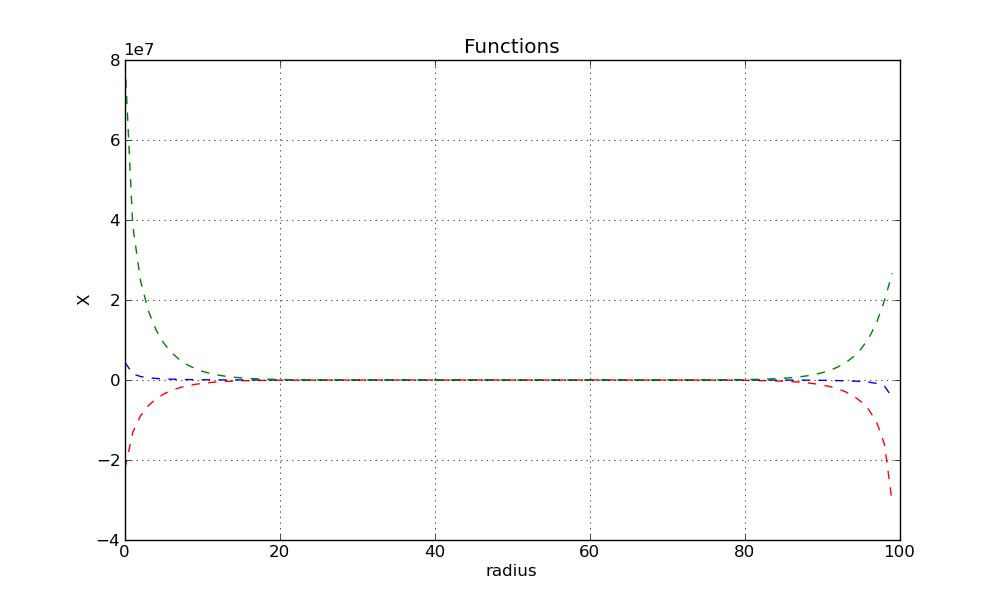
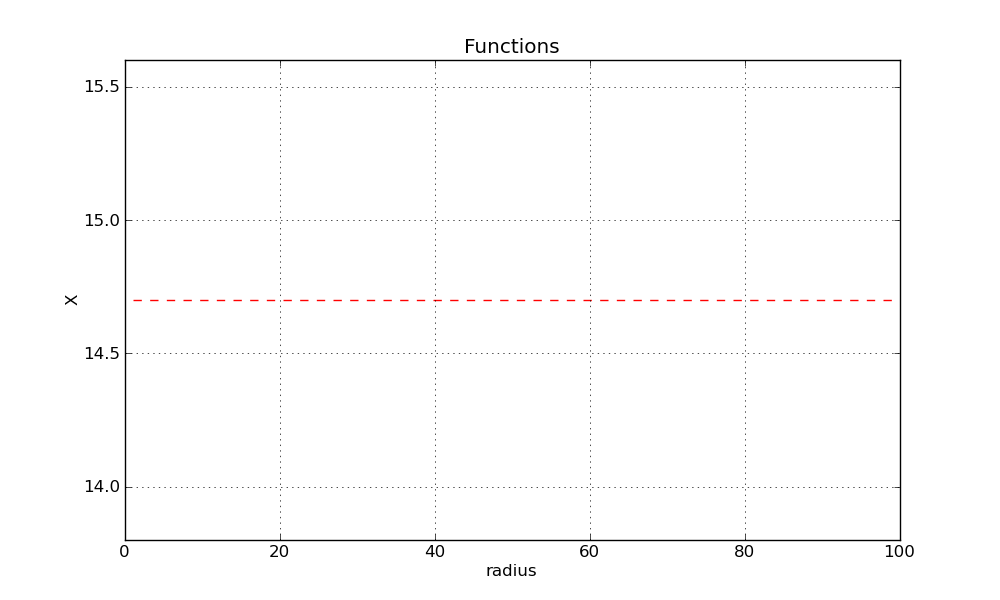
first commit of 1d trial

diff --git a/poisson1d.c b/poisson1d.c
@@ -1,0 +1,272 @@
+
+/* to run, type
+ 
+gcc -Wall  -o poisson1d poisson1d.c -I/$HOME/software/CSparse/Include -L/$HOME/software/CSparse/Lib -lcsparse
+ 
+ 
+ */
+
+
+#include <stdio.h>
+#include <stdlib.h>
+#include <math.h>
+#include "cs.h"
+
+FILE *output;
+FILE *output2;
+FILE *output3;
+
+#define Pi 3.14159265
+static double *d1uphi, *uphi_new, *source, *radius;
+static double Wi, Wo, Re, r1, r2;
+static double grid_spacing[2];
+static int P_size;
+
+
+void open_file(){
+    output2 = fopen("Uphi.txt", "rt");
+    char line[80];
+    int i=0;
+    
+    while(fgets(line, 80, output2) !=NULL){
+        sscanf(line, "%lf",&d1uphi[i]);
+        
+        //printf("%f, i=%d \n", d1uphi[i], i);
+        i+=1;
+    }
+    fclose(output2);
+    
+}
+
+
+void fill_source(){
+    int i;
+    for(i=0; i<(P_size+2); i++){
+        radius[i] = r1 + ((i-1)*grid_spacing[0]);
+        if(i==0){
+            source[i] = (2.0*radius[i]*Re*Wi*Wi);
+        }else if(i==(P_size+1)){
+            //source[i] = radius[i]*Re*Wo*Wo;
+            source[i] = 0.0;
+        }/*else if(i==1){ //this could be sketchy, not quite sure if this is the right thing to do.
+            source[i] = Re*(d1uphi[i-1]/(radius));
+        }else if(i==P_size){
+            source[i] = 2.0*Re*(Wo*d1uphi[i-1]/(radius));
+        }*/else{
+            source[i] = Re*d1uphi[i-1]*d1uphi[i-1]/radius[i];
+        }
+        printf("source[%d] = %f, radius = %f \n ", i, source[i], radius[i]);
+
+    }
+    
+}
+
+void finite_difference(){
+    int i;
+    for(i=0; i<P_size; i++){
+        //double radius = r1 + (i*grid_spacing[0]);
+        double value = radius[i+1]*(fabs(source[i+2] - source[i]))/(grid_spacing[0]*Re);
+        uphi_new[i] = sqrt(value);
+        printf("value = %f, uphinew[%d] = %f \n", value, i, uphi_new[i]);
+    }
+
+}
+
+
+int main()
+// -----------------------------------------------------------------------------
+// This program uses the CSparse library to solve the matrix equation A x = b.
+// The values used for the coefficient 'b' and the matrix 'A' are totally
+// arbitrary in this example. 'A' is given a band-tridiagonal form, with
+// additional entries in the upper right and lower right corners.
+// -----------------------------------------------------------------------------
+{
+    //for a 100x100 array, but have 2 ghost cells in it for bcs
+    const int M = 102;
+    const int N = 102;
+    P_size = 100;
+    int i, j;
+    
+    d1uphi = (double*) malloc(P_size*sizeof(double));
+    uphi_new = (double*) malloc(P_size*sizeof(double));
+    radius = (double*) malloc((P_size+2)*sizeof(double));
+
+
+    source = (double*) malloc((P_size+2)*sizeof(double));
+    
+    open_file();
+    Re = 1.0;
+    Wi = 10.0;
+    Wo = 0.0;
+    r1 = 1.0;
+    r2 = 2.0;
+    
+    
+    grid_spacing[0] = (r2-r1)/P_size;
+    grid_spacing[1] = (2.0*Pi)/P_size;
+    
+    fill_source();
+    
+
+    //printf("here \n");
+
+    double *matrix2 = (double*) malloc(M*N*sizeof(double));
+    // Declare an MxN matrix which can hold up to three band-diagonals.
+    struct cs_sparse *triplet = cs_spalloc(M, N, 3*N, 1, 1);
+    
+    //cs_entry(triplet, 0, 0, 1.0); // Fill the corners with the value 1
+    //cs_entry(triplet, M-1, N-1, 1.0);
+    
+    // Fill the diagonal, and the band above and below the diagonal with some
+    // values.
+    
+    
+    int position;
+    for(i=0; i<M; i++){
+        for(j=0; j<N; j++){
+            position = (i*N) + j;
+            matrix2[position] = 0.0;
+        }
+    }
+    
+    matrix2[0] = 1.0;
+    matrix2[(M-1)*N + N-1] = 1.0;
+    
+    //printf("here");
+    for (i=0; i<M; i++) {
+        printf("%d \n", i);
+        double a, b, c, d, e;
+        //double radius = r1 + ((i-1)*grid_spacing[0]);
+        //a = grid_spacing[1]*grid_spacing[1]*radius*(radius - grid_spacing[0]);
+        //b = grid_spacing[0]*grid_spacing[0];
+        //c = -2.0*((grid_spacing[1]*grid_spacing[1]*radius*radius) + (grid_spacing[0]*grid_spacing[0]));
+        //d = b;
+        //e = grid_spacing[1]*grid_spacing[1]*radius*(radius + grid_spacing[0]);
+        //a = (1.0/(grid_spacing[0]*grid_spacing[0])) - (1.0/(radius*grid_spacing[0]));
+        //b = 1.0/(radius*radius*grid_spacing[1]*grid_spacing[1]);
+        //c = -2.0*((1.0/(grid_spacing[0]*grid_spacing[0])) + (1.0/(radius*radius*grid_spacing[1]*grid_spacing[1])));
+        //c = -2.0*(1.0/(grid_spacing[0]*grid_spacing[0]));
+        //d = b;
+        //e = (1.0/(grid_spacing[0]*grid_spacing[0])) +(1.0/(radius*grid_spacing[0]));
+        a = 1.0/grid_spacing[0];
+        e = -a;
+        
+        /*if(i<=(P_size)){
+            cs_entry(triplet,i, 0, a);
+            matrix2[(i*N)] = a;
+        }else{
+            cs_entry(triplet,i, i-P_size,  a);
+            matrix2[(i*N) + (i-P_size)] = a;
+        }
+        
+        if(i>=(M-P_size - 1)){
+            cs_entry(triplet,i, N-1, e);
+            matrix2[(i*N) + N-1] = e;
+        }else{
+            cs_entry(triplet,i, i+P_size,  e);
+            matrix2[(i*N) + (i + P_size)] = e ;
+        }
+        
+        
+        if((i-1)%P_size==0){
+            cs_entry(triplet,i, i+(P_size-1),  b);
+            matrix2[(i*N) + (i + P_size-1)] = b;
+        }else{
+            cs_entry(triplet,i, i-1, b);
+            matrix2[(i*N) + (i-1)] = b;
+        }
+        
+        if(i%P_size==0){
+            cs_entry(triplet,i, i-(P_size - 1), d);
+            matrix2[(i*N) + (i - P_size +1)] = d;
+        }else{
+            cs_entry(triplet,i, i+1, d);
+            matrix2[(i*N) + (i +1)] = d ;
+
+        }*/
+        
+        
+        if(i==0){
+            //cs_entry(triplet, i, i, a);
+            cs_entry(triplet, i, i+1, e+a);
+        }else if(i==(M-1)){
+            cs_entry(triplet, i, i-1, a+e);
+            //cs_entry(triplet, i, i, e);
+        }else{
+            cs_entry(triplet, i, i-1, a);
+            //cs_entry(triplet, i, i, c);
+            cs_entry(triplet, i, i+1, e);
+        }
+
+        //cs_entry(triplet, i, i, c);
+        //matrix2[(i*N) + i] = c;
+    }
+    
+    // Declare and initialize the array of coefficients, 'b'.
+    /*double *b = (double*) malloc(N*sizeof(double));
+    double inner = 15.0;
+    double outer =  -15.0;
+    b[0] = inner;
+    b[N-1] = outer;
+    for (i=1; i<N-1; ++i) {
+        //double radius = r1 + ((i-1)*grid_spacing[0]);
+        //double coeffic = grid_spacing[0]*grid_spacing[0]*grid_spacing[1]*grid_spacing[1]*radius*radius;
+        
+        if((i-1)%P_size==0){
+            b[i] = inner;
+        }else if(i%P_size==0){
+            b[i] = outer;
+        }else{
+            b[i] = 0.0;
+
+        }
+        
+    }*/
+    
+    // Convert the triplet matrix into compressed column form, and use LU
+    // decomposition to solve the system. Note that the vector 'b' of coefficients
+    // overwritten to contain the solution vector 'x'.
+    struct cs_sparse *matrix = cs_compress(triplet);
+    cs_lusol(0, matrix, source, 1e-12);
+    // Print the solution vector.
+    output=fopen("trial3.txt", "w");
+
+    for (i=0; i<(P_size+2); i++) {
+        /*for(j=0; j<P_size+1; ++j){
+            position = (i*P_size) + j;
+            //printf(" m[%d] = %f", position, matrix2[position] );
+            
+            if(j==50){fprintf(output, "%+5.4e \n", b[i]);}
+
+        }*/
+        //printf("\n");
+        printf("source[%d] = %+5.4e\n", i, source[i]);
+        fprintf(output, "%+5.4e \n", source[i]);
+    }
+    
+    for (i=0; i<N; ++i) {
+        //printf("b[%d] = %+5.4e\n", i, b[i]);
+    }
+    
+    
+    //now want to finite difference the source, which is now the pressure and see if we get u back.
+    //dP/dr = Re*Uphi^2/r
+
+    finite_difference();
+    
+    
+    output3=fopen("uphi_new.txt", "w");
+    
+    for (i=0; i<(P_size); i++) {
+        //printf("\n");
+        //printf("source[%d] = %+5.4e\n", i, source[i]);
+        fprintf(output3, "%+5.4e \n", uphi_new[i]);
+    }
+    
+    // Clean up memory usage.
+    cs_spfree(triplet);
+    cs_spfree(matrix);
+    free(source);
+    
+    return 0;
+}

diff --git a/poisson.c b/poisson.c
@@ -59,11 +59,17 @@ int main()
         //printf("%d \n", i);
         double a, b, c, d, e;
         double radius = r1 + ((i-1)*grid_spacing[0]);
-        a = grid_spacing[1]*grid_spacing[1]*radius*(radius - grid_spacing[0]);
-        b = grid_spacing[0]*grid_spacing[0];
-        c = -2.0*((grid_spacing[1]*grid_spacing[1]*radius*radius) + (grid_spacing[0]*grid_spacing[0]));
+        //a = grid_spacing[1]*grid_spacing[1]*radius*(radius - grid_spacing[0]);
+        //b = grid_spacing[0]*grid_spacing[0];
+        //c = -2.0*((grid_spacing[1]*grid_spacing[1]*radius*radius) + (grid_spacing[0]*grid_spacing[0]));
+        //d = b;
+        //e = grid_spacing[1]*grid_spacing[1]*radius*(radius + grid_spacing[0]);
+        a = (1.0/(grid_spacing[0]*grid_spacing[0])) - (1.0/(radius*grid_spacing[0]));
+        b = 1.0/(radius*radius*grid_spacing[1]*grid_spacing[1]);
+        c = -2.0*((1.0/(grid_spacing[0]*grid_spacing[0])) + (1.0/(radius*radius*grid_spacing[1]*grid_spacing[1])));
         d = b;
-        e = grid_spacing[1]*grid_spacing[1]*radius*(radius + grid_spacing[0]);
+        e = (1.0/(grid_spacing[0]*grid_spacing[0])) +(1.0/(radius*grid_spacing[0]));
+        
         if(i<=(P_size)){
             cs_entry(triplet,i, 0, a);
             matrix2[(i*N)] = a;
@@ -104,11 +110,14 @@ int main()
     
     // Declare and initialize the array of coefficients, 'b'.
     double *b = (double*) malloc(N*sizeof(double));
-    double inner = 0.5;
-    double outer =  1.5;
+    double inner = 15.0;
+    double outer =  -15.0;
     b[0] = inner;
     b[N-1] = outer;
     for (i=1; i<N-1; ++i) {
+        //double radius = r1 + ((i-1)*grid_spacing[0]);
+        //double coeffic = grid_spacing[0]*grid_spacing[0]*grid_spacing[1]*grid_spacing[1]*radius*radius;
+        
         if((i-1)%P_size==0){
             b[i] = inner;
         }else if(i%P_size==0){

diff --git a/poisson_solver.py b/poisson_solver.py
@@ -4,13 +4,13 @@ import math as math
 
 
 
-u = np.loadtxt('trial1.txt',skiprows=1 , unpack=True)
-u2 = np.loadtxt('trial2.txt',skiprows=1 , unpack=True)
-u3 = np.loadtxt('trial3.txt',skiprows=1 , unpack=True)
-
+##u = np.loadtxt('trial1.txt',skiprows=1 , unpack=True)
+##u2 = np.loadtxt('trial2.txt',skiprows=1 , unpack=True)
+uphi_shooting = np.loadtxt('Uphi.txt',skiprows=0 , unpack=True)
+uphi_sparse = np.loadtxt('uphi_new.txt',skiprows=0 , unpack=True)
 radius = []
-r1 = 0.0
-for i in range(len(u)):
+r1 = 1.0
+for i in range(len(uphi_shooting)):
 	r2 = r1+ i
 	radius.append(r2)
 
@@ -22,21 +22,22 @@ fig1.subplots_adjust(wspace=0.3, hspace=0.3)
 ax1 = fig1.add_subplot(1,1,1)
 
 
-ax1.plot(radius, u, '--b')
-ax1.plot(radius, u2, '--g')
-ax1.plot(radius, u3, '--r')
+##ax1.plot(radius, u, '--b')
+##ax1.plot(radius, u2, '--g')
+ax1.plot(radius, uphi_shooting, '--r', label = 'shooting')
+ax1.plot(radius, uphi_sparse, '--b', label = 'sparse')
 
 
 
-##ax1.legend(loc = 'best')
+ax1.legend(loc = 'best')
 ax1.grid()
 ax1.set_xlabel('radius')
-ax1.set_ylabel('X')
-ax1.set_title('Functions')
+ax1.set_ylabel(r'$u_{\phi}(r)$')
+ax1.set_title(r'$u_{\phi}(r)$ vs radius')
 
 
 
-plt.savefig('trial')
+plt.savefig('shooting_and_sparce')
 
 
 plt.show() 

diff --git a/timedep.c b/timedep.c
@@ -208,8 +208,8 @@ int main(int argc, char **argv)
     open_file();
 
     
-    V_phi_inner = 0.0;
-    V_phi_outer = 10.0;
+    V_phi_inner = 10.0;
+    V_phi_outer = 0.0;
     time = 0.0;
     /* --fix these!!!
      Boundary conditions:

diff --git a/steady.c b/steady.c
@@ -87,8 +87,8 @@ int main(int argc, char **argv)
     //V1 = r1*omega;
     //V2 = r2*omega;
     
-    V1 = 0.0;
-    V2 = 10.0;
+    V1 = 10.0;
+    V2 = 0.0;
     
     double s, s_old;
     
